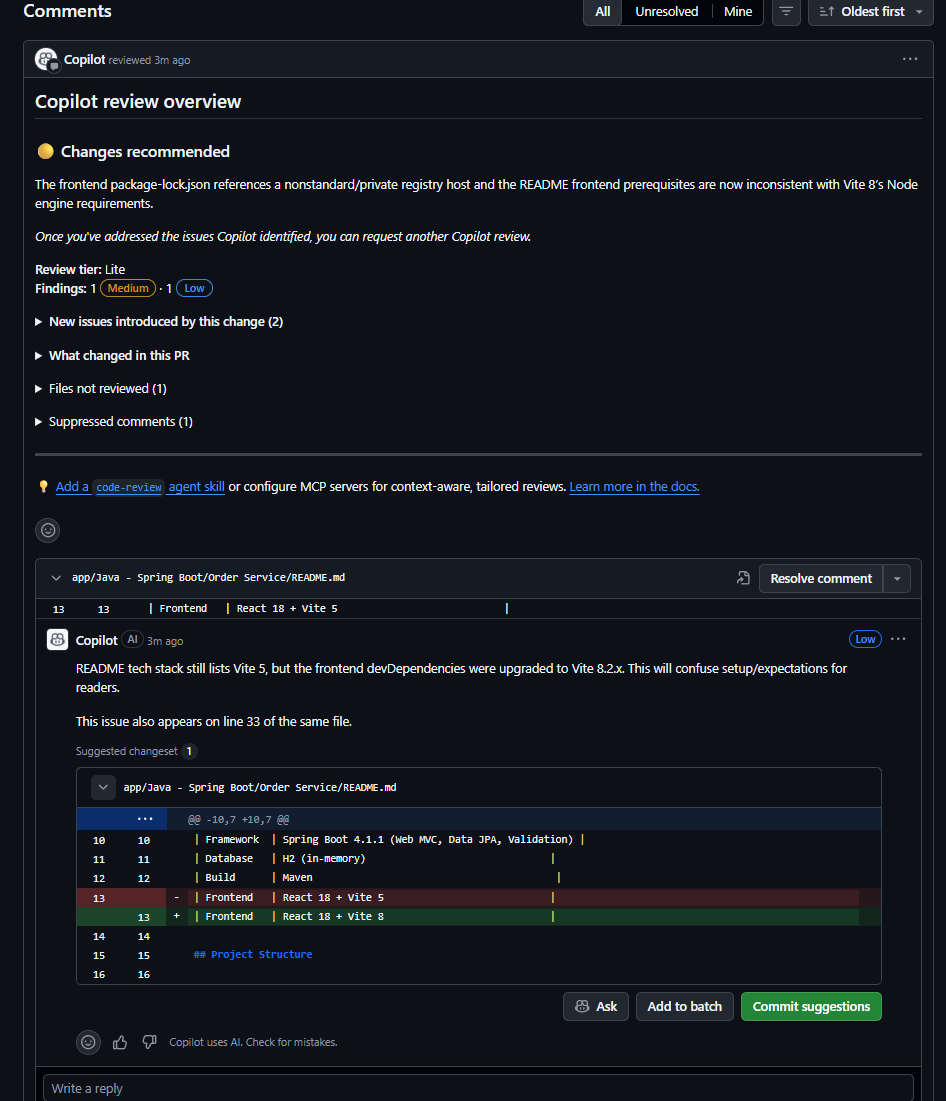
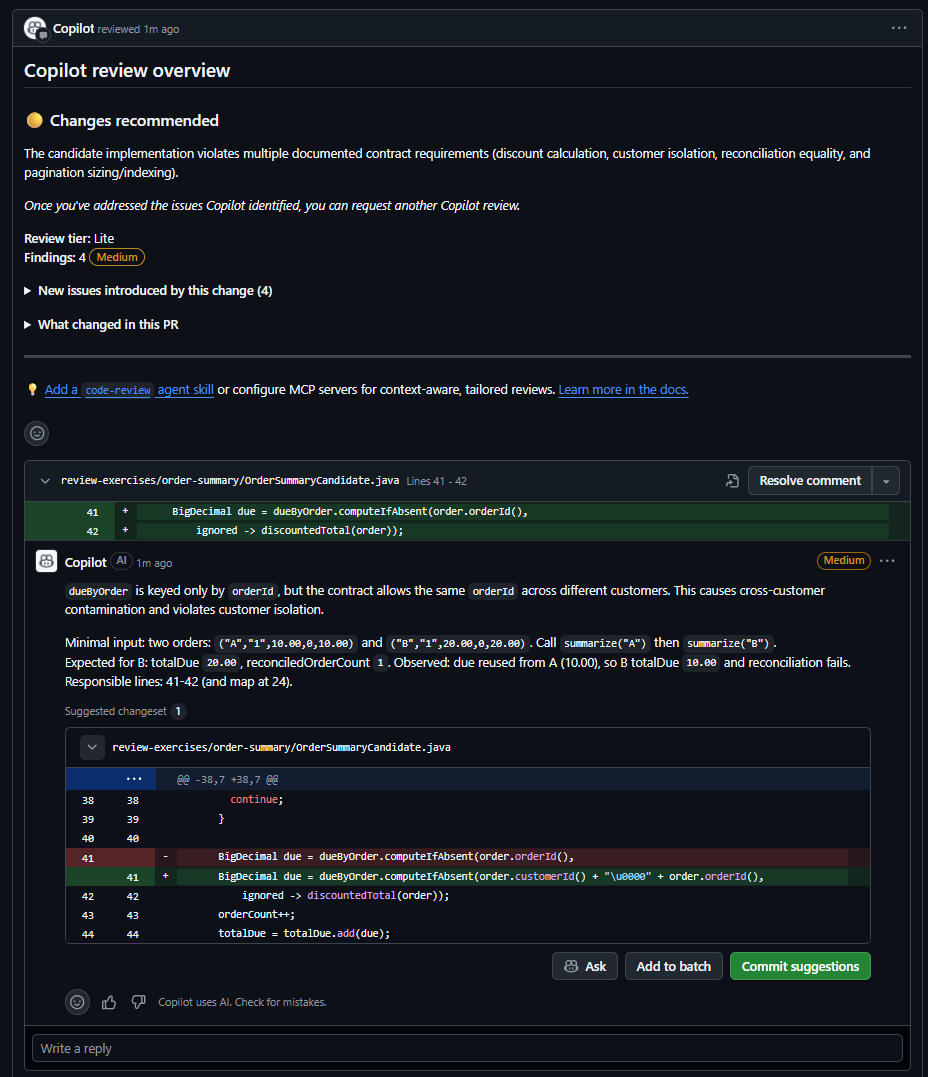
Clarify Copilot review workshop steps

Changed region(s): [[0.0, 0.0, 1.0, 1.0], [0.5938, 0.0, 1.0, 0.0613], [0.9688, 0.3064, 1.0, 0.337]]

diff --git a/docs/workshop.md b/docs/workshop.md
@@ -1110,24 +1110,34 @@ In this level, use **[Copilot Coding Review](https://docs.github.com/en/enterpri
 in the previous levels. You will add a [custom review instruction](https://docs.github.com/en/enterprise-cloud@latest/copilot/how-tos/use-copilot-agents/request-a-code-review/use-code-review#customizing-copilots-reviews-with-custom-instructions), run the review,
 and capture the results.
 
+## Step 1: Find review instructions
+
 In Copilot Chat, run `/awesome-copilot:suggest-awesome-github-copilot-instructions` to find or generate Copilot instruction files that are suitable for code reviews. Use the suggested review instructions to inform the custom instruction for this pull request.
 
 ![alt text](assets/coding-review-instructions.png)
 
-## Use Copilot Coding Review with custom instructions
+## Step 2: Install the custom review instructions
 
 Install the practical generic one: code-review-generic.instructions.md as `.github/copilot-instructions.md`
+
+## Step 3: Commit and push the instructions
 
 Commit and push the addition to the already-open PR branch
 
 ![alt text](assets/pr-copilot-instructions.png)
 
+## Step 4: Request a Copilot review
+
 Under "Reviewers" in the right sidebar, next to Copilot, click Request.
 
 ![alt text](assets/request-review.png)
 
+## Step 5: Read the review feedback
+
 Wait for Copilot to review the pull request and provide its feedback.
 Scroll down and read through Copilot's comments.
+
+## Step 6: Triage the review comments
 
 Review each comment and decide whether to apply, discuss, or dismiss it. Copilot labels each comment with a severity level of "High," "Medium," or "Low" to help you prioritize the issues it finds based on their importance.
 
